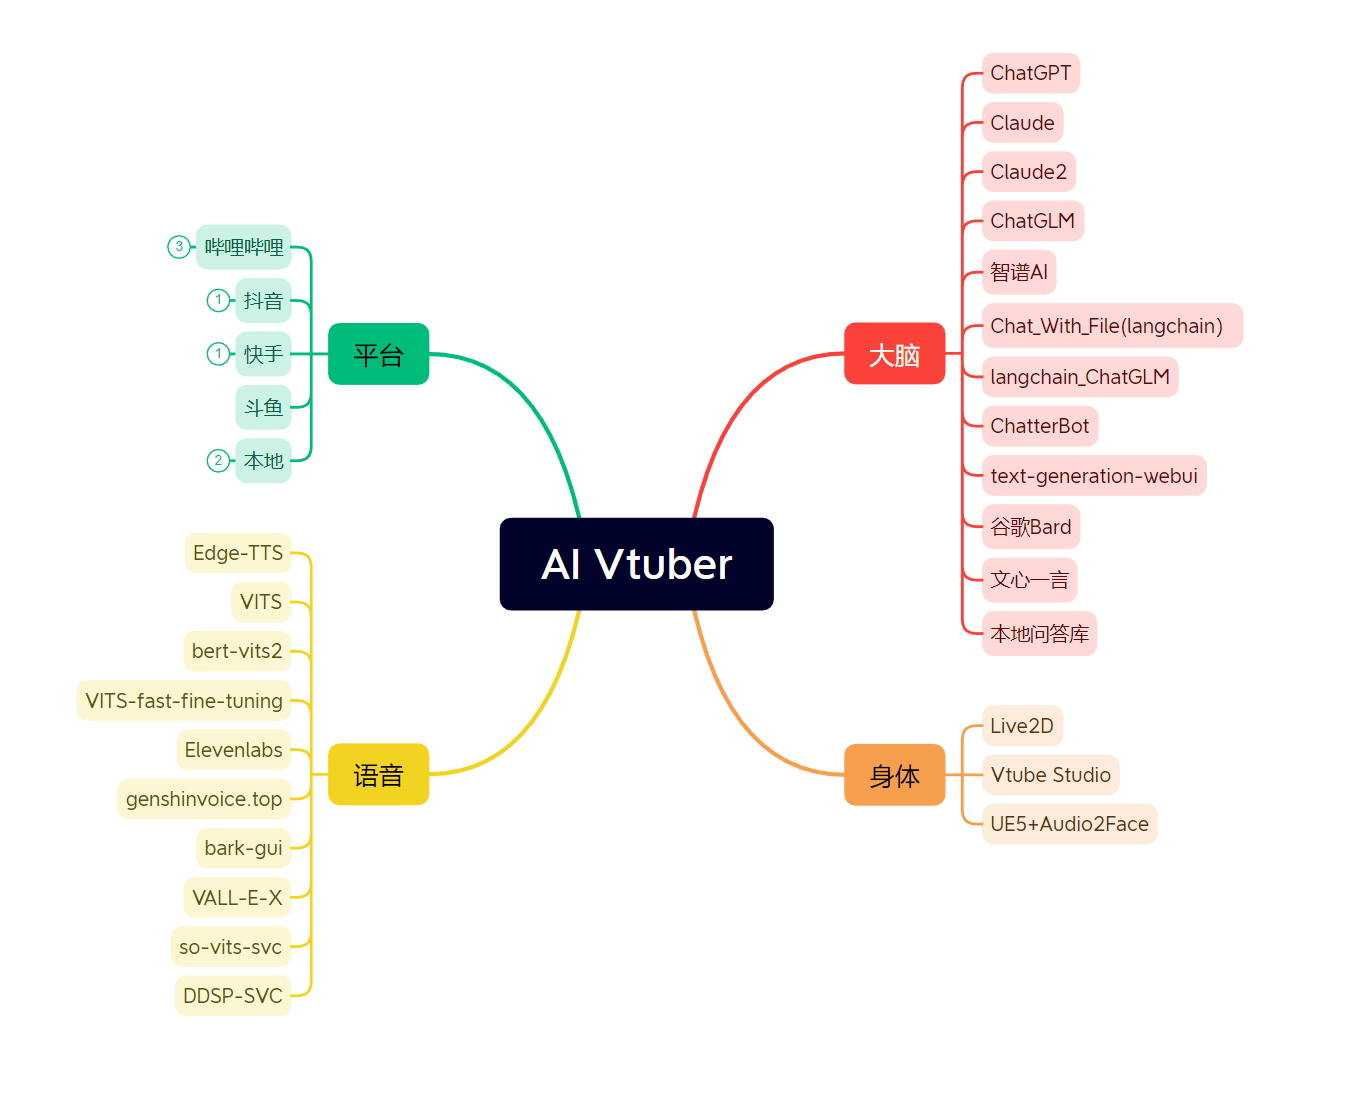
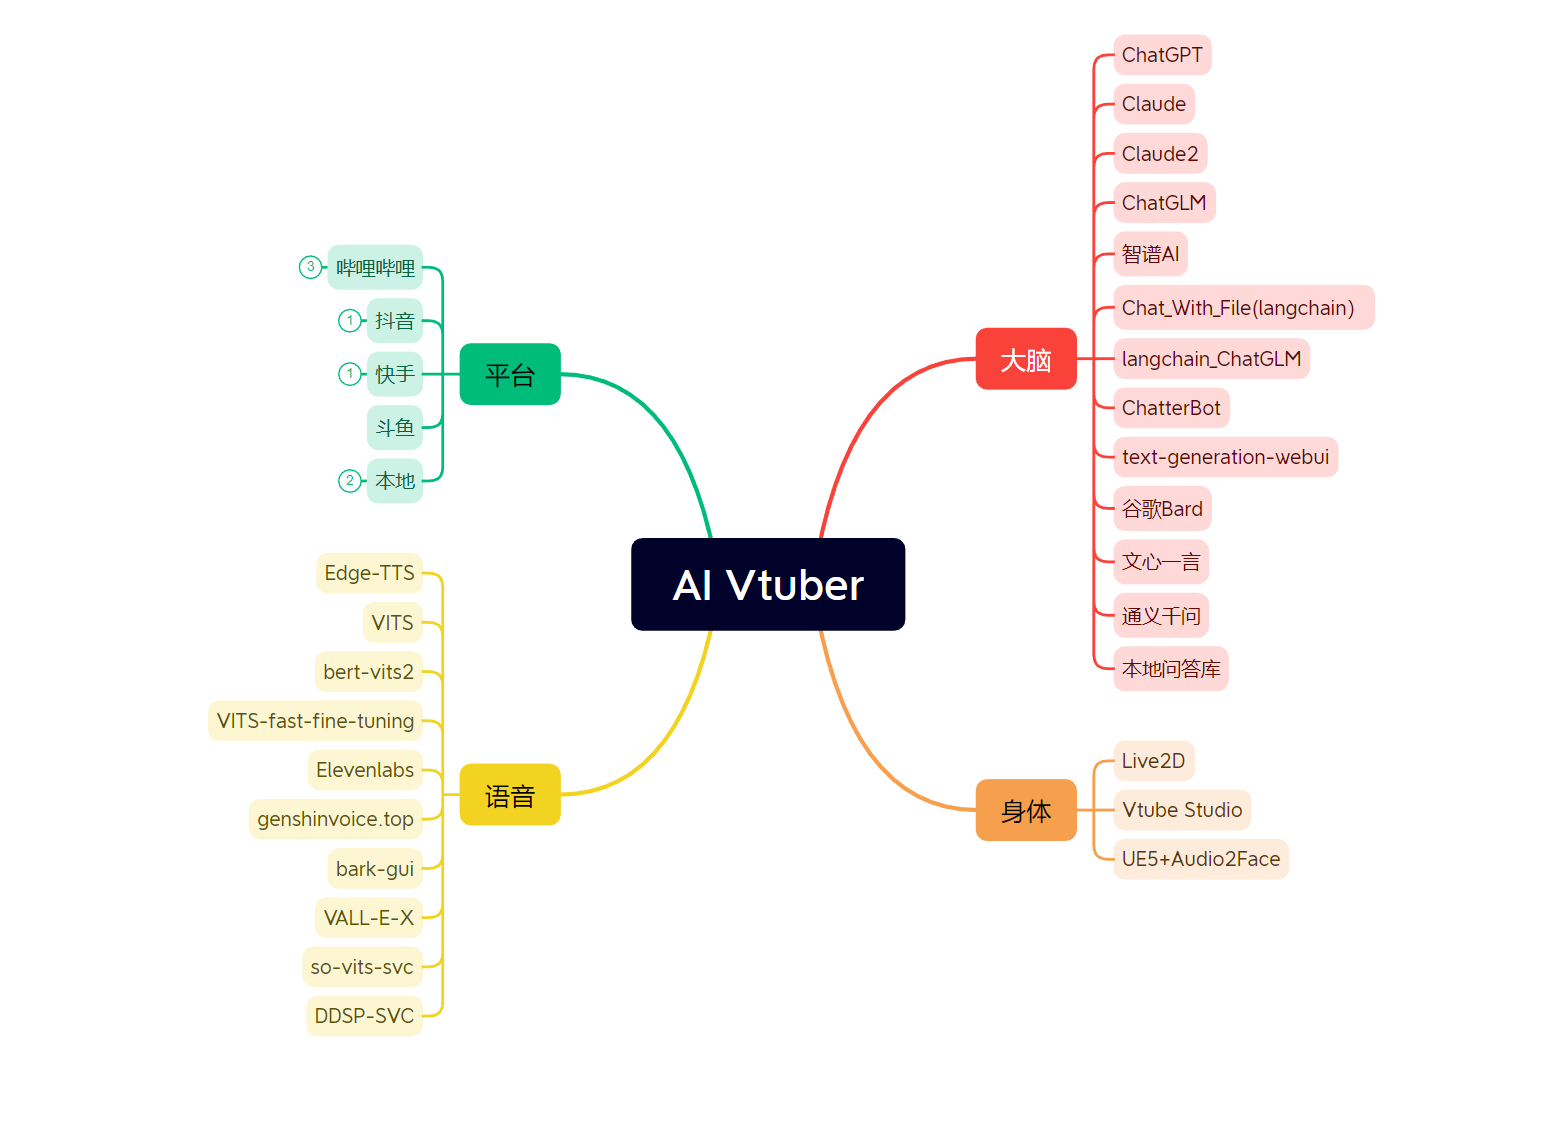
更新文档和思维导图

Changed region(s): [[0.0312, 0.1858, 0.592, 0.929], [0.5608, 0.031, 0.9347, 0.8051]]

diff --git a/README.md b/README.md
@@ -18,7 +18,7 @@
 
 Luna AI 是一个由
 
-`ChatterBot / GPT / Claude / langchain 本地 or 云端 / chatglm / text-generation-webui / 讯飞星火 / 智谱AI`
+`ChatterBot / GPT / Claude / langchain 本地 or 云端 / chatglm / text-generation-webui / 讯飞星火 / 智谱AI / 谷歌Bard / 文心一言 / 通义千问`
 
 做为 `大脑` 驱动的虚拟主播 `Live2D / Vtube Studio / UE5 + Audio2Face` ，可以在 `Bilibili / 抖音 / 快手 / 斗鱼` 直播中与观众实时互动 或者 直接在本地和您进行聊天
 
